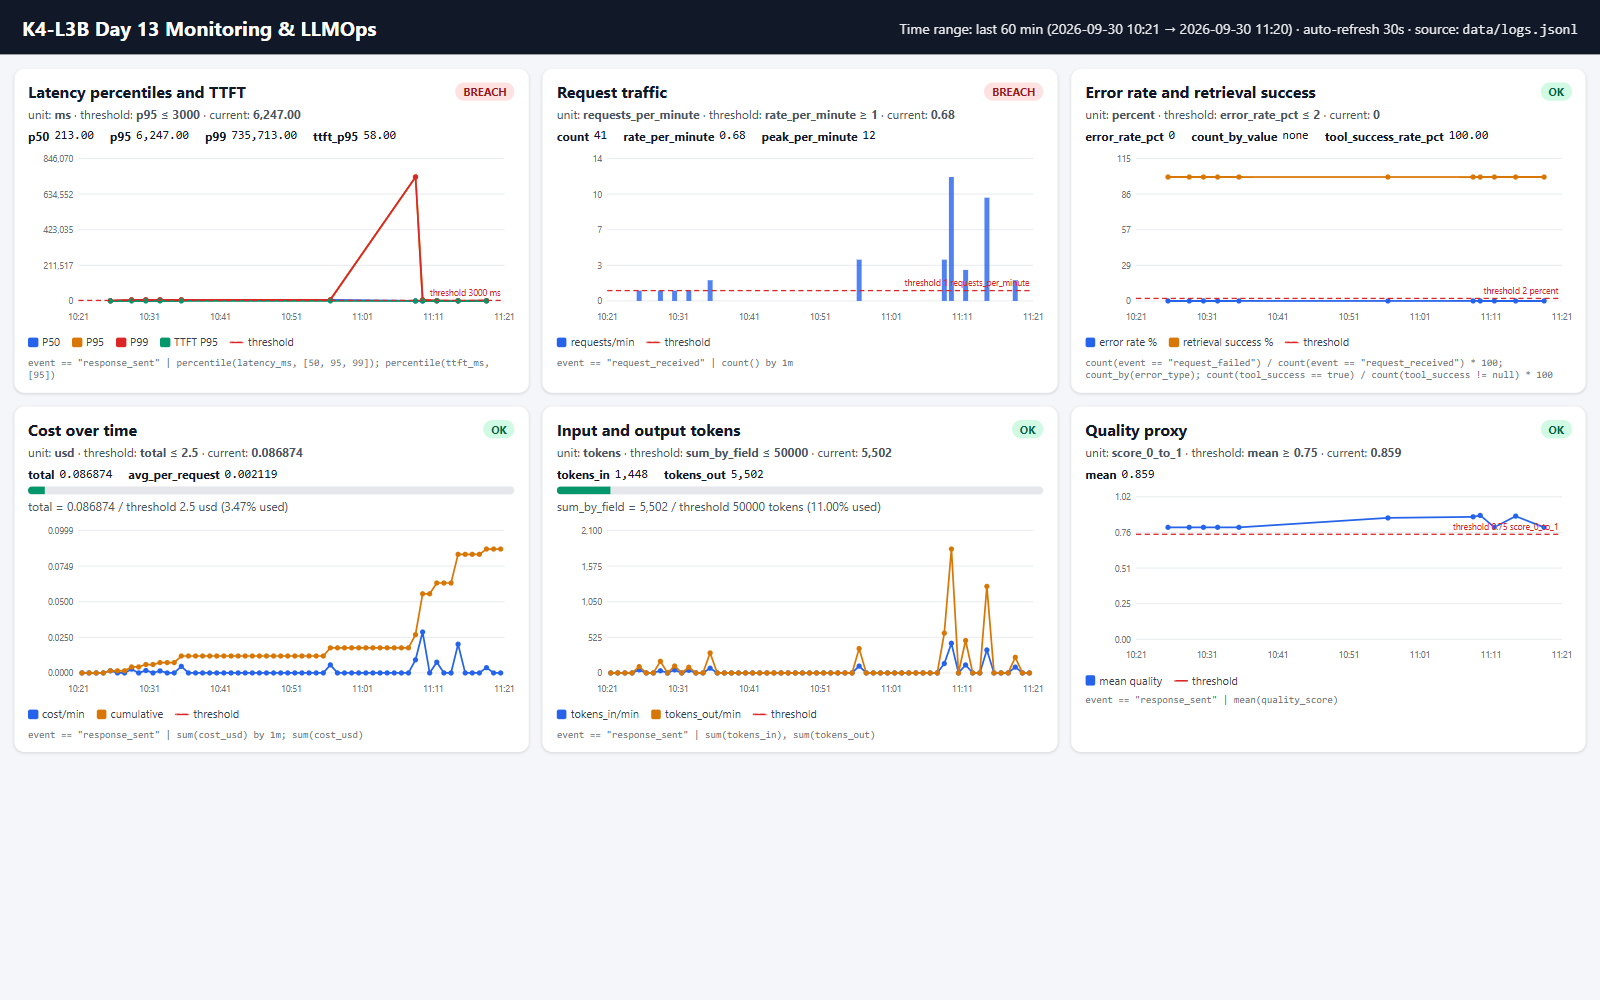
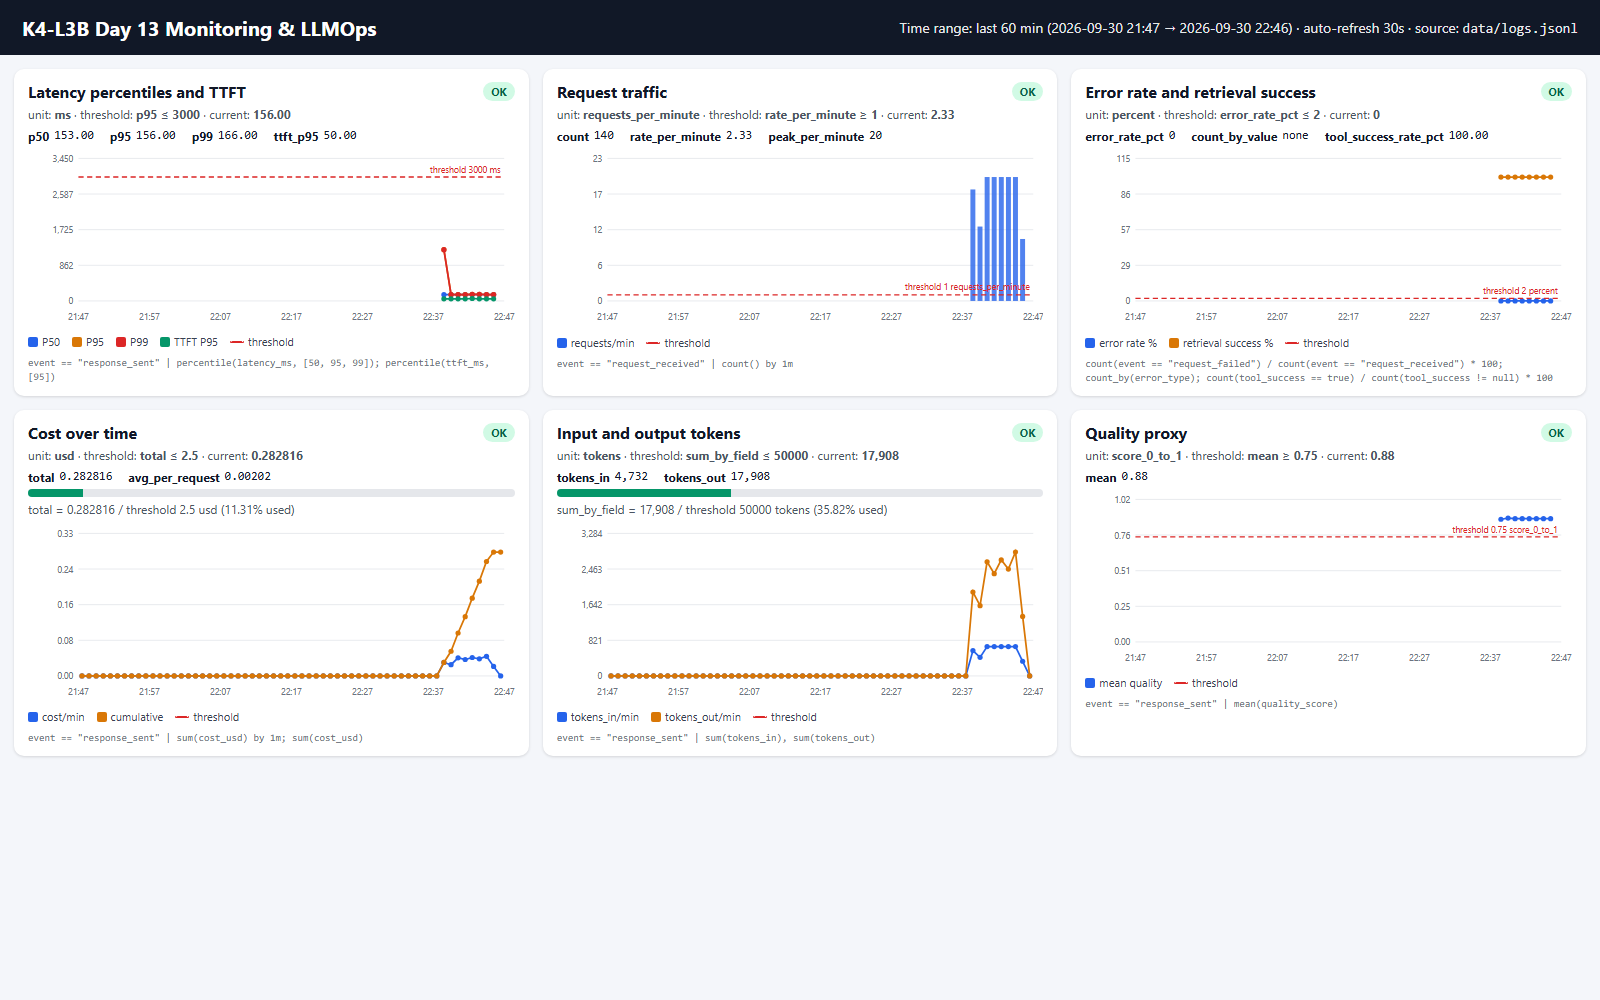
docs: retake dashboard evidence on healthy window; fix escaped characters in report

diff --git a/submission/REPORT.md b/submission/REPORT.md
@@ -7,7 +7,7 @@
 - **Họ và tên:** Văn Quốc Dũng
 - **MSSV:** 2A202602505
 - **Lớp:** K4-L3B
-- **Repository URL:** https://github.com/vvstdung89/K4-L3-DAY13-VanQuocDung-2A202602505-Monitoring-LLMOps
+- **Repository URL:** [https://github.com/vvstdung89/K4-L3-DAY13-VanQuocDung-2A202602505-Monitoring-LLMOps](https://github.com/vvstdung89/K4-L3-DAY13-VanQuocDung-2A202602505-Monitoring-LLMOps)
 - **Commit SHA cuối:** `2916c1f0c87a6b559e5fea9d20b56ad944b4e748` (commit chứa toàn bộ source, config và evidence; commit sau đó chỉ ghi SHA này vào report)
 - **Challenge ID:** `day13-k4-l3b-monitoring-llmops-v1`
 - **Tên project Langfuse cá nhân:** `day13-k4-l3b-2A202602505`
@@ -16,34 +16,38 @@
 
 Điền đúng đường dẫn tới evidence thực tế. Có thể đổi tên hoặc dùng nhiều ảnh nếu cần.
 
-| Evidence | Đường dẫn |
-|---|---|
-| Pytest cuối | `evidence/01-pytest.png` |
-| Log validator | `evidence/02-log-validator.png` |
-| Dashboard validator | `evidence/03-dashboard-validator.png` |
-| Structured log | `evidence/04-structured-log.png` |
-| PII redaction | `evidence/05-pii-redaction.png` |
-| Trace list | `evidence/06-trace-list.png` |
-| Trace waterfall | `evidence/07-trace-waterfall.png` |
-| Trace metadata | `evidence/08-trace-metadata.png`, `evidence/08b-generation-metadata.png` |
-| Prompt versions | `evidence/09-prompt-versions.png` |
-| Prompt rollback | `evidence/10a-prompt-before-promote.png`, `evidence/10b-prompt-after-promote.png`, `evidence/10c-prompt-after-rollback.png` |
-| Dashboard runtime | `evidence/11-dashboard-overview.png` |
-| Incident metric | `evidence/12-incident-metric.png` |
-| Incident log | `evidence/13-incident-log.png` |
-| Incident trace | `evidence/14-incident-trace.png`, `evidence/14b-incident-trace-metadata.png` |
+
+| Evidence            | Đường dẫn                                                                                                                   |
+| ------------------- | --------------------------------------------------------------------------------------------------------------------------- |
+| Pytest cuối         | `evidence/01-pytest.png`                                                                                                    |
+| Log validator       | `evidence/02-log-validator.png`                                                                                             |
+| Dashboard validator | `evidence/03-dashboard-validator.png`                                                                                       |
+| Structured log      | `evidence/04-structured-log.png`                                                                                            |
+| PII redaction       | `evidence/05-pii-redaction.png`                                                                                             |
+| Trace list          | `evidence/06-trace-list.png`                                                                                                |
+| Trace waterfall     | `evidence/07-trace-waterfall.png`                                                                                           |
+| Trace metadata      | `evidence/08-trace-metadata.png`, `evidence/08b-generation-metadata.png`                                                    |
+| Prompt versions     | `evidence/09-prompt-versions.png`                                                                                           |
+| Prompt rollback     | `evidence/10a-prompt-before-promote.png`, `evidence/10b-prompt-after-promote.png`, `evidence/10c-prompt-after-rollback.png` |
+| Dashboard runtime   | `evidence/11-dashboard-overview.png`                                                                                        |
+| Incident metric     | `evidence/12-incident-metric.png`                                                                                           |
+| Incident log        | `evidence/13-incident-log.png`                                                                                              |
+| Incident trace      | `evidence/14-incident-trace.png`, `evidence/14b-incident-trace-metadata.png`                                                |
+
 
 ## 3. Kết quả kỹ thuật
 
-| Nội dung | Baseline | Kết quả cuối | Nhận xét |
-|---|---|---|---|
-| `validate_logs.py` | 30/100 (thiếu required fields, 0 correlation ID, thiếu enrichment; PII 0 leak) | 100/100 (207 records, 98 correlation ID, 0 thiếu field/enrichment) | Correlation middleware + bind context + scrub trước khi ghi (CP1) |
-| `validate_dashboard.py` | 6/6 panel hợp lệ | 6/6 panel hợp lệ | Contract giữ nguyên; dashboard runtime `/dashboard` đọc đúng contract |
-| `pytest` | 22 passed | 38 passed | +16 test: PII, correlation/logging, child observations, dashboard |
-| Số traces hợp lệ | 0 (10 traces, chỉ có root `lab-agent-run`, chưa có retrieval/generation) | 64 traces có root + retrieval + generation (88 traces tổng) | 24 trace chỉ có root là từ baseline/trước CP2 |
-| Số PII leak | 0 | 0 (log) và chỉ preview đã scrub trên trace | Sample query có email/thẻ; baseline đã che nhờ `summarize_text`, nay scrub mọi field |
-| Latency P95 / TTFT P95 | 1325 ms / 50 ms | 157 ms / 50 ms | Lượt cuối 10 request, 05:17Z; sau khi prompt `day13-chat` có trên Langfuse, không còn fetch 404 |
-| Retrieval success rate | 100% (10/10) | 100% (95/95) | Kể cả trong incident: retrieval chậm nhưng không lỗi |
+
+| Nội dung                | Baseline                                                                       | Kết quả cuối                                                       | Nhận xét                                                                                        |
+| ----------------------- | ------------------------------------------------------------------------------ | ------------------------------------------------------------------ | ----------------------------------------------------------------------------------------------- |
+| `validate_logs.py`      | 30/100 (thiếu required fields, 0 correlation ID, thiếu enrichment; PII 0 leak) | 100/100 (207 records, 98 correlation ID, 0 thiếu field/enrichment) | Correlation middleware + bind context + scrub trước khi ghi (CP1)                               |
+| `validate_dashboard.py` | 6/6 panel hợp lệ                                                               | 6/6 panel hợp lệ                                                   | Contract giữ nguyên; dashboard runtime `/dashboard` đọc đúng contract                           |
+| `pytest`                | 22 passed                                                                      | 38 passed                                                          | +16 test: PII, correlation/logging, child observations, dashboard                               |
+| Số traces hợp lệ        | 0 (10 traces, chỉ có root `lab-agent-run`, chưa có retrieval/generation)       | 64 traces có root + retrieval + generation (88 traces tổng)        | 24 trace chỉ có root là từ baseline/trước CP2                                                   |
+| Số PII leak             | 0                                                                              | 0 (log) và chỉ preview đã scrub trên trace                         | Sample query có email/thẻ; baseline đã che nhờ `summarize_text`, nay scrub mọi field            |
+| Latency P95 / TTFT P95  | 1325 ms / 50 ms                                                                | 157 ms / 50 ms                                                     | Lượt cuối 10 request, 05:17Z; sau khi prompt `day13-chat` có trên Langfuse, không còn fetch 404 |
+| Retrieval success rate  | 100% (10/10)                                                                   | 100% (95/95)                                                       | Kể cả trong incident: retrieval chậm nhưng không lỗi                                            |
+
 
 ## 4. Logging và PII
 
@@ -61,14 +65,14 @@
 - **Version/label baseline:** v1, labels `baseline` + `production` (template gốc của contract).
 - **Version/label candidate:** v2, label `candidate` (thêm câu "You are a concise support assistant. Answer in at most 3 sentences using only the docs.").
 - **Trace ID của mỗi version:** cùng input "Explain why metrics traces and logs work together":
-
-  | Label khi chạy | Prompt version | correlation_id | Trace ID |
-  |---|---|---|---|
-  | `baseline` | v1 | `req-ba5e0011` | `f6eb17f18a7f9fc3ae962b23e3477f74` |
-  | `candidate` | v2 | `req-ca0d0002` | `8c07a5558867636419d9c7f8d4029db0` |
-  | `production` sau promote | v2 | `req-20d00013` | `a3fe6e1c9c6833491e5519277579a1f0` |
-  | `production` sau rollback | v1 | `req-10d00014` | `ef1a567cae7369169d662ea7a83c3c3c` |
-
+  
+  | Label khi chạy            | Prompt version | correlation_id | Trace ID                           |
+  | ------------------------- | -------------- | -------------- | ---------------------------------- |
+  | `baseline`                | v1             | `req-ba5e0011` | `f6eb17f18a7f9fc3ae962b23e3477f74` |
+  | `candidate`               | v2             | `req-ca0d0002` | `8c07a5558867636419d9c7f8d4029db0` |
+  | `production` sau promote  | v2             | `req-20d00013` | `a3fe6e1c9c6833491e5519277579a1f0` |
+  | `production` sau rollback | v1             | `req-10d00014` | `ef1a567cae7369169d662ea7a83c3c3c` |
+  
 - **Cách promote và rollback `production`:** không sửa code; app đọc prompt theo `LANGFUSE_PROMPT_NAME` + `LANGFUSE_PROMPT_LABEL`. Promote: chuyển label `production` sang v2 (`langfuse.update_prompt(name="day13-chat", version=2, new_labels=["production"])`), khởi động lại API để bỏ cache 60s, request `req-20d00013` dùng v2. Rollback: chuyển `production` về v1 (`version=1`), request `req-10d00014` dùng lại v1. Mỗi ảnh chọn đúng version đang mang label `production` (`?version=N`) để thấy nội dung prompt thay đổi: v1 (chỉ 3 biến) → v2 (thêm câu "concise support assistant") → v1. Ảnh trước/sau: `evidence/10a-prompt-before-promote.png`, `evidence/10b-prompt-after-promote.png`, `evidence/10c-prompt-after-rollback.png`; danh sách version: `evidence/09-prompt-versions.png`.
 
 ## 6. Dashboard, SLO và alerts
@@ -89,7 +93,7 @@
 - **Khoảng thời gian điều tra:** incident 05:01:41Z–05:02:10Z (12:01:41–12:02:10 giờ VN). Mốc so sánh khỏe mạnh ngay trước: 05:01:22Z–05:01:27Z. Fix và kiểm chứng: 05:08:02Z–05:08:40Z.
 - **Triệu chứng từ metrics:** panel latency (`/dashboard?minutes=10`, `evidence/12-incident-metric.png`): P50 tăng từ 153ms lên **2,653ms** (~17 lần), P95 từ 1,566ms lên **2,654ms**, vượt `latency_threshold_ms` 2000 của challenge. **TTFT P95 giữ nguyên 50ms**, error rate 0%, retrieval success 100%, tokens/cost/quality bình thường, nên chỗ chậm nằm ngoài LLM và không phải lỗi. Lưu ý: P95 2,654ms vẫn dưới threshold SLO 3000ms nên panel vẫn báo OK và alert `HighLatencyP95` sẽ không bắn.
 - **Log line và correlation ID liên quan:** lọc `response_sent` trong khoảng incident (`evidence/13-incident-log.png`): cả 10 request `feature=monitoring` có `latency_ms` 2652–2654, `ttft_ms=50`, `tool_name=retrieval`, `tool_success=true`; các request `qa/summary` ngay trước chỉ ~153ms. Request đại diện: `correlation_id=req-c1b49090`, session `k4-l3b-challenge-s05`, `request_received` lúc 05:01:42.494Z, `response_sent` lúc 05:01:45.147Z, `latency_ms=2652`.
-- **Trace ID và span gây ảnh hưởng:** trace `14e2ede7121fdaf2d23897e3686c2bbc`, metadata `correlation_id=req-c1b49090` (`evidence/14b-incident-trace-metadata.png`). Waterfall (`evidence/14-incident-trace.png`): `lab-agent-run` 2,653ms, trong đó **`retrieval` 2,500ms (94%)**, còn `llm-generation` 151ms như bình thường. Retrieval vẫn trả `doc_count=1`, level DEFAULT, nên nó chậm chứ không lỗi.
+- **Trace ID và span gây ảnh hưởng:** trace `14e2ede7121fdaf2d23897e3686c2bbc`, metadata `correlation_id=req-c1b49090` (`evidence/14b-incident-trace-metadata.png`). Waterfall (`evidence/14-incident-trace.png`): `lab-agent-run` 2,653ms, trong đó `**retrieval` 2,500ms (94%)**, còn `llm-generation` 151ms như bình thường. Retrieval vẫn trả `doc_count=1`, level DEFAULT, nên nó chậm chứ không lỗi.
 - **Root cause:** bước retrieval (vector store / `app/mock_rag.retrieve`) bị chậm thêm cố định ~2.5s mỗi request trong khoảng incident (incident `rag_slow` được bật bởi challenge), làm latency end-to-end vượt ngưỡng 2000ms. Ba tín hiệu cùng chỉ về một nguyên nhân: metric latency tăng mà TTFT không đổi → log có `latency_ms≈2653` với `tool_success=true` → trace cùng `correlation_id` có span `retrieval` 2.5s.
 - **Fix action:** tắt nguồn gây chậm của retrieval (`python scripts/inject_incident.py --disable`, tương đương khôi phục vector store/cấu hình retrieval), rồi chạy lại đúng workload challenge. Kiểm chứng: lượt đầu sau fix P50 153ms nhưng 1 request 2,151ms (`req-c182f4a0`, trace `31243c1948fc24f3bce460d47441f839`: retrieval 0ms, generation 152ms, khoảng trống 2,000ms là lúc fetch prompt từ Langfuse sau khi cache 60s hết hạn, không phải incident). Lượt thứ hai (cache ấm): P50 153ms, P95 154ms, max 154ms (`req-e11da203`), tức đã hồi phục.
 - **Preventive measure:**
@@ -119,4 +123,5 @@
 - [x] Trace/prompt evidence thuộc project Langfuse cá nhân và ảnh không lộ key/secret.
 - [x] Repository chạy lại được theo README.
 - [x] Không có secret, API key, PII thô hoặc evidence của người khác/lớp khác.
-- [ ] URL repo và commit SHA cuối đã được nộp trên LMS/Codelabs.
+- [x] URL repo và commit SHA cuối đã được nộp trên LMS/Codelabs.
+
